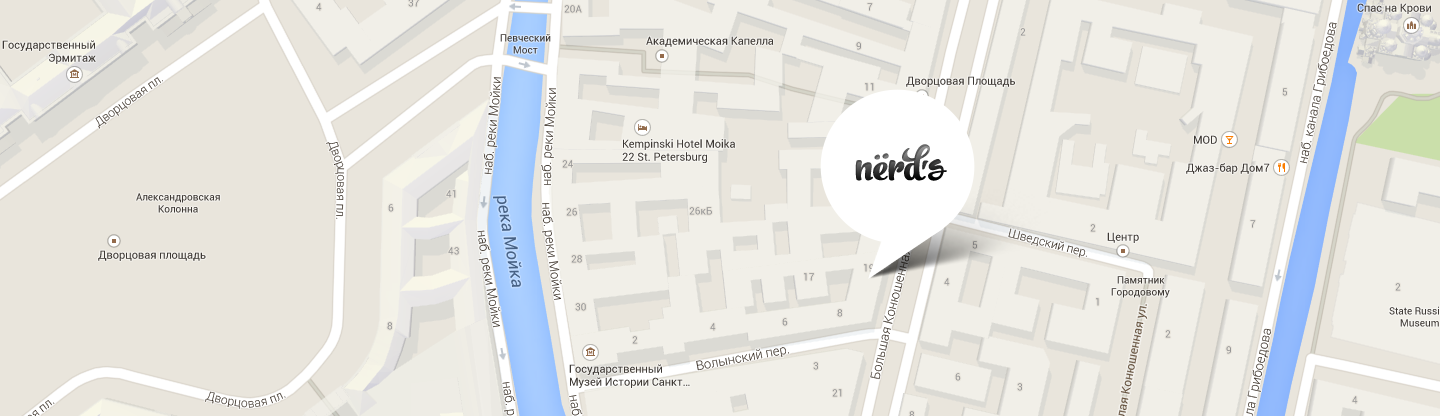
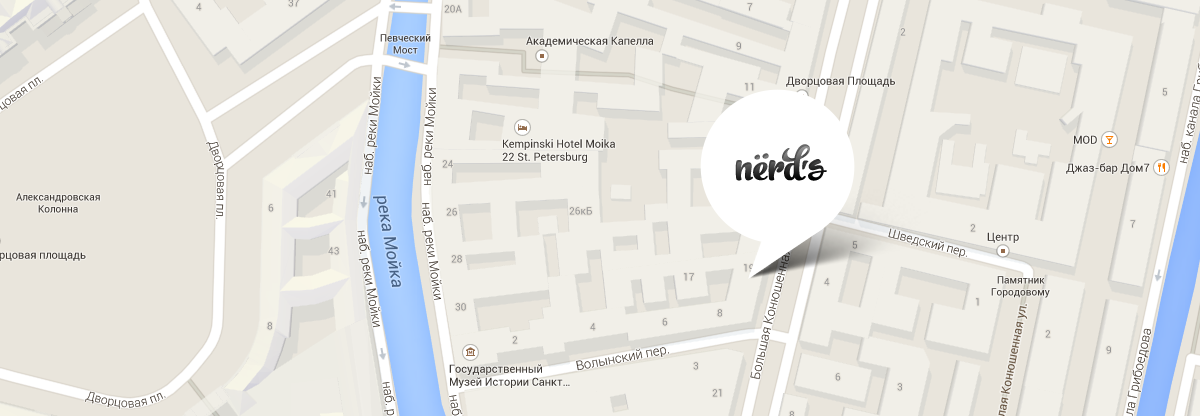
Исправил часть замечаний проверяющего

diff --git a/catalog.html b/catalog.html
@@ -4,20 +4,20 @@
   <meta charset="UTF-8">
   <title>HTML Academy: Нёрдс</title>
   <link rel="stylesheet" href="css/normalize.css">
-  <link rel="stylesheet" href="css/style-min.css">
+  <link rel="stylesheet" href="css/style.css">
 </head>
 <body>
   <header class="main-header">
     <nav class="container main-navigation">
       <a class="header-logo" href="index.html"><img src="img/nerds-logo.svg" alt="Логотип Nerds" width="160" height="65"></a>
       <ul class="site-navigation">
-        <li><a href="#" onclick="return false">Студия</a></li>
-        <li><a href="#" onclick="return false">Клиенты</a></li>
+        <li><a href="#">Студия</a></li>
+        <li><a href="#">Клиенты</a></li>
         <li><a class="current-link">Магазин</a></li>
         <li><a href="#contacts">Контакты</a></li>
       </ul>
       <ul class="cart-navigation">
-        <li><a class="cart-link" href="#" onclick="return false"><img src="img/cart-icon.svg" alt="Корзина" width="15" height="15">Корзина</a></li>
+        <li><a class="cart-link" href="#"><img src="img/cart-icon.svg" alt="Корзина" width="15" height="15">Корзина</a></li>
       </ul>
     </nav>
   </header>
@@ -100,73 +100,73 @@
           <section class="sort-section">
             <h2 class="sort-label">Сортировать:</h2>
             <ul class="sort-list">
-              <li><a href="#" class="current-item" onclick="return false">По цене</a></li>
-              <li><a href="#" onclick="return false">По типу</a></li>
-              <li><a href="#" onclick="return false">По названию</a></li>
-              <li><a href="#" class="current-item" onclick="return false"><img src="img/icon-down-dir.svg" alt="По убыванию" width="11" height="10" class="current-item"></a></li>
-              <li><a href="#" onclick="return false"><img src="img/icon-up-dir.svg" alt="По возрастанию" width="11" height="10"></a></li>
+              <li><a href="#" class="current-item">По цене</a></li>
+              <li><a href="#">По типу</a></li>
+              <li><a href="#">По названию</a></li>
+              <li><a href="#" class="current-item"><img src="img/icon-down-dir.svg" alt="По убыванию" width="11" height="10" class="current-item"></a></li>
+              <li><a href="#"><img src="img/icon-up-dir.svg" alt="По возрастанию" width="11" height="10"></a></li>
             </ul>
           </section>
           <section class="catalog-section">
             <h2 class="visually-hidden">Список шаблонов</h2>
             <ul class="catalog-list">
               <li class="catalog-item">
-                <img src="img/img-sedona.jpg" alt="Шаблон «Sedona»" width="360" height="576">
+                <img src="/img/img-sedona.jpg" alt="Шаблон «Sedona»" width="360" height="576">
                 <div class="catalog-popup">
-                  <a href="#" onclick="return false"><h3>Sedona</h3></a>
+                  <a href="#"><h3>Sedona</h3></a>
                   <p>Информационный сайт</p>
                   <p>для туристов</p>
-                  <a class="price-button" href="#" onclick="return false">9 900 руб.</a>
+                  <a class="price-button" href="#">9 900 руб.</a>
                 </div>
                 <img src="img/browser.svg" alt="Просмотр шаблона" width="360" height="40" class="browser-img">
               </li>
               <li class="catalog-item">
-                <img src="img/img-pink.jpg" alt="Шаблон «Pink»" width="360" height="576">
+                <img src="/img/img-pink.jpg" alt="Шаблон «Pink»" width="360" height="576">
                 <div class="catalog-popup">
-                  <a href="#" onclick="return false"><h3>Pink App</h3></a>
+                  <a href="#"><h3>Pink App</h3></a>
                   <p>Продуктовый лендинг</p>
                   <p>приложения для iOS и Android</p>
-                  <a class="price-button" href="#" onclick="return false">9 900 руб.</a>
+                  <a class="price-button" href="#">9 900 руб.</a>
                 </div>
                 <img src="img/browser.svg" alt="Просмотр шаблона" width="360" height="40" class="browser-img">
               </li>
               <li class="catalog-item">
-                <img src="img/img-barbershop.jpg" alt="Шаблон «Бородинский»" width="360" height="576">
+                <img src="/img/img-barbershop.jpg" alt="Шаблон «Бородинский»" width="360" height="576">
                 <div class="catalog-popup">
-                  <a href="#" onclick="return false"><h3>Barbershop</h3></a>
+                  <a href="#"><h3>Barbershop</h3></a>
                   <p>Сайт салона красоты.</p>
                   <p>Для мужчин, да.</p>
-                  <a class="price-button" href="#" onclick="return false">9 900 руб.</a>
+                  <a class="price-button" href="#">9 900 руб.</a>
                 </div>
                 <img src="img/browser.svg" alt="Просмотр шаблона" width="360" height="40" class="browser-img">
               </li>
               <li class="catalog-item">
-                <img src="img/img-mishka.jpg" alt="Шаблон «Mishka»" width="360" height="576">
+                <img src="/img/img-mishka.jpg" alt="Шаблон «Mishka»" width="360" height="576">
                 <div class="catalog-popup">
-                  <a href="#" onclick="return false"><h3>MISHKA</h3></a>
+                  <a href="#"><h3>MISHKA</h3></a>
                   <p>Интернет-магазин</p>
                   <p>вязаных игрушек</p>
-                  <a class="price-button" href="#" onclick="return false">9 900 руб.</a>
+                  <a class="price-button" href="#">9 900 руб.</a>
                 </div>
                 <img src="img/browser.svg" alt="Просмотр шаблона" width="360" height="40" class="browser-img">
               </li>
               <li class="catalog-item">
-                <img src="img/img-aplus.jpg" alt="Шаблон «A+»" width="360" height="576">
+                <img src="/img/img-aplus.jpg" alt="Шаблон «A+»" width="360" height="576">
                 <div class="catalog-popup">
-                  <a href="#" onclick="return false"><h3>A PLUS</h3></a>
+                  <a href="#"><h3>A PLUS</h3></a>
                   <p>Лендинг курсов повышения</p>
                   <p>квалификации</p>
-                  <a class="price-button" href="#" onclick="return false">9 900 руб.</a>
+                  <a class="price-button" href="#">9 900 руб.</a>
                 </div>
                 <img src="img/browser.svg" alt="Просмотр шаблона" width="360" height="40" class="browser-img">
               </li>
               <li class="catalog-item">
-                <img src="img/img-kvast.jpg" alt="Шаблон «Кваст»" width="360" height="576">
+                <img src="/img/img-kvast.jpg" alt="Шаблон «Кваст»" width="360" height="576">
                 <div class="catalog-popup">
-                  <a href="#" onclick="return false"><h3>КВАСТ</h3></a>
+                  <a href="#"><h3>КВАСТ</h3></a>
                   <p>Промо-сайт производителя</p>
                   <p>крафтового кваса</p>
-                  <a class="price-button" href="#" onclick="return false">9 900 руб.</a>
+                  <a class="price-button" href="#">9 900 руб.</a>
                 </div>
                 <img src="img/browser.svg" alt="Просмотр шаблона" width="360" height="40" class="browser-img">
               </li>
@@ -175,9 +175,9 @@
           <nav class="pagination">
             <ul class="catalog-navigation">
               <li><a class="list-item current-page">1</a></li>
-              <li><a class="list-item" href="#" onclick="return false">2</a></li>
-              <li><a class="list-item" href="#" onclick="return false">3</a></li>
-              <li><a class="next-page" href="#" onclick="return false">Следующая</a></li>
+              <li><a class="list-item" href="#">2</a></li>
+              <li><a class="list-item" href="#">3</a></li>
+              <li><a class="next-page" href="#">Следующая</a></li>
             </ul>
           </nav>
         </div>
@@ -197,7 +197,7 @@
         </section>
       </div>
       <div class="map">
-        <img src="img/map-m.png" alt="Схема проезда" width="1440" height="416">
+        <img src="img/map-m.png" alt="Схема проезда" width="1200" height="416">
       </div>
       <div class="map-interactive" id="map">
         <!--
@@ -209,9 +209,9 @@
   <footer class="main-footer">
     <div class="container footer-items">
       <ul class="social-list">
-        <li><a class="social-link" href="#" onclick="return false"><img src="img/vk-icon.svg" alt="Вконтакте" width="26" height="15"></a></li>
-        <li><a class="social-link" href="#" onclick="return false"><img src="img/fb-icon.svg" alt="Фейсбук" width="12" height="22"></a></li>
-        <li><a class="social-link" href="#" onclick="return false"><img src="img/insta-icon.svg" alt="Инстаграм" width="21" height="21"></a></li>
+        <li><a class="social-link" href="#"><img src="img/vk-icon.svg" alt="Вконтакте" width="26" height="15"></a></li>
+        <li><a class="social-link" href="#"><img src="img/fb-icon.svg" alt="Фейсбук" width="12" height="22"></a></li>
+        <li><a class="social-link" href="#"><img src="img/insta-icon.svg" alt="Инстаграм" width="21" height="21"></a></li>
       </ul>
       <p class="invite">
         Давайте дружить, это выгодно!

diff --git a/index.html b/index.html
@@ -4,20 +4,20 @@
   <meta charset="utf-8">
   <title>HTML Academy: Нёрдс</title>
   <link rel="stylesheet" href="css/normalize.css">
-  <link rel="stylesheet" href="css/style-min.css">
+  <link rel="stylesheet" href="css/style.css">
 </head>
 <body>
   <header class="main-header">
     <nav class="container main-navigation">
       <a class="header-logo index-link"><img src="img/nerds-logo.svg" alt="Логотип Nerds" width="160" height="65"></a>
       <ul class="site-navigation">
-        <li><a href="#" onclick="return false">Студия</a></li>
-        <li><a href="#" onclick="return false">Клиенты</a></li>
+        <li><a href="#">Студия</a></li>
+        <li><a href="#">Клиенты</a></li>
         <li><a href="catalog.html">Магазин</a></li>
         <li><a href="#contacts">Контакты</a></li>
       </ul>
       <ul class="cart-navigation">
-        <li><a class="cart-link" href="#" onclick="return false"><img src="img/cart-icon.svg" alt="Корзина" width="15" height="15">Корзина</a></li>
+        <li><a class="cart-link" href="#"><img src="img/cart-icon.svg" alt="Корзина" width="15" height="15">Корзина</a></li>
       </ul>
     </nav>
   </header>
@@ -37,7 +37,7 @@
           <div class="slides-text">
             <h2 class="slide-head">Долго, дорого,<br>скрупулезно.</h2>
             <p class="slide-text">Математически выверенный дизайн<br>для вашего сайта или мобильного приложения.</p>
-            <a class="slide-button" href="#" onclick="return false">Узнать больше</a>
+            <a class="slide-button" href="#">Узнать больше</a>
           </div>
           <img src="img/slide1.png" alt="Слайд 1" width="698" height="413" class="slide1-img">
         </div>
@@ -45,7 +45,7 @@
           <div class="slides-text">
             <h2 class="slide-head">Любим математику<br>как никто другой</h2>
             <p>Никакого креатива, только математические формулы<br>для расчета идеальных пропорций.</p>
-            <a class="slide-button" href="#" onclick="return false">Узнать больше</a>
+            <a class="slide-button" href="#">Узнать больше</a>
           </div>
           <img src="img/slide2.png" alt="Слайд 2" width="663" height="430" class="slide2-img">
         </div>
@@ -53,7 +53,7 @@
           <div class="slides-text">
             <h2 class="slide-head">Только ночь,<br>только хардкор</h2>
             <p>Работать днем, как все? Мы против этого.<br>Ближе к полуночи работа только начинается.</p>
-            <a class="slide-button" href="#" onclick="return false">Узнать больше</a>
+            <a class="slide-button" href="#">Узнать больше</a>
           </div>
           <img src="img/slide3.png" alt="Слайд 3" width="759" height="411" class="slide3-img">
         </div>
@@ -68,21 +68,21 @@
               <img src="img/illustration-1.png" alt="Веб-сайты" width="300" height="146">
               <p class="propositions-text">Мир никогда не будет прежним</p>
               <p class="propositions-text">после того как увидит ваш сайт!</p>
-              <a class="order-button order-button1" href="#" onclick="return false">Заказать</a>
+              <a class="order-button order-button1" href="#">Заказать</a>
             </li>
             <li class="propositions-items">
               <h3 class="propositions-head">Приложения</h3>
               <img src="img/illustration-2.png" alt="Приложения" width="300" height="146">
               <p class="propositions-text">Покорите топ-10 приложений в</p>
               <p class="propositions-text">AppStore и Google Play</p>
-              <a class="order-button order-button2" href="#" onclick="return false">Заказать</a>
+              <a class="order-button order-button2" href="#">Заказать</a>
             </li>
             <li class="propositions-items">
               <h3 class="propositions-head">Презентации</h3>
               <img src="img/illustration-3.png" alt="Презентации" width="300" height="146">
               <p class="propositions-text">Вы даже не подозреваете,</p>
               <p class="propositions-text">насколько вы изумительны!</p>
-              <a class="order-button order-button3" href="#" onclick="return false">Заказать</a>
+              <a class="order-button order-button3" href="#">Заказать</a>
             </li>
           </ul>
       </section>
@@ -124,9 +124,9 @@
         <h2 class="visually-hidden">Парнёры</h2>
         <ul class="partners-list">
           <li><a href="https://htmlacademy.ru/intensive/htmlcss"><img src="img/logo-1.png" alt="Логотип html academy" width="260" height="180" ></a></li>
-          <li><a href="#" onclick="return false"><img src="img/logo-2.png" alt="Логотип барбершопа «Бородинский»" width="260" height="180"></a></li>
-          <li><a href="#" onclick="return false"><img src="img/logo-3.png" alt="Логотип «Pink»" width="260" height="180"></a></li>
-          <li><a href="#" onclick="return false"><img src="img/logo-4.png" alt="Логотип «Mishka»" width="260" height="180"></a></li>
+          <li><a href="#"><img src="img/logo-2.png" alt="Логотип барбершопа «Бородинский»" width="260" height="180"></a></li>
+          <li><a href="#"><img src="img/logo-3.png" alt="Логотип «Pink»" width="260" height="180"></a></li>
+          <li><a href="#"><img src="img/logo-4.png" alt="Логотип «Mishka»" width="260" height="180"></a></li>
         </ul>
       </section>
     </div>
@@ -144,7 +144,7 @@
         </section>
       </div>
       <div class="map">
-        <img src="img/map-m.png" alt="Схема проезда" width="1440" height="416">
+        <img src="img/map-m.png" alt="Схема проезда" width="1200" height="416">
       </div>
       <div class="map-interactive" id="map">
         <!--
@@ -156,9 +156,9 @@
   <footer class="main-footer">
     <div class="container footer-items">
       <ul class="social-list">
-        <li><a class="social-link" href="#" onclick="return false"><img src="img/vk-icon.svg" alt="Вконтакте" width="26" height="15"></a></li>
-        <li><a class="social-link" href="#" onclick="return false"><img src="img/fb-icon.svg" alt="Фейсбук" width="12" height="22"></a></li>
-        <li><a class="social-link" href="#" onclick="return false"><img src="img/insta-icon.svg" alt="Инстаграм" width="21" height="21"></a></li>
+        <li><a class="social-link" href="#"><img src="img/vk-icon.svg" alt="Вконтакте" width="26" height="15"></a></li>
+        <li><a class="social-link" href="#"><img src="img/fb-icon.svg" alt="Фейсбук" width="12" height="22"></a></li>
+        <li><a class="social-link" href="#"><img src="img/insta-icon.svg" alt="Инстаграм" width="21" height="21"></a></li>
       </ul>
       <p class="invite">
         Давайте дружить, это выгодно!

diff --git a/css/style.css b/css/style.css
@@ -91,7 +91,7 @@ input[type="checkbox"].visually-hidden {
 
 .main-header {
   display: flex;
-  height: 115px;
+  padding-top: 115px;
   background-color: #eeeeee;
 }
 
@@ -106,6 +106,7 @@ input[type="checkbox"].visually-hidden {
 .site-navigation {
   display: flex;
   justify-content: space-between;
+  flex-wrap: wrap;
   width: 438px;
   margin-top: 12px;
 }
@@ -130,6 +131,7 @@ input[type="checkbox"].visually-hidden {
 
 .cart-navigation {
   display: flex;
+  flex-wrap: wrap;
   width: 116px;
   margin-top: 12px;
   margin-left: auto;
@@ -171,22 +173,22 @@ input[type="checkbox"].visually-hidden {
 .slide3 {
   display: none;
   position: relative;
-  height: 430px;
 }
 
 .slides-text {
   display: flex;
   flex-direction: column;
   width: 645px;
-  height: 270px;
   margin-top: 75px;
-  margin-bottom: auto;
+  margin-bottom: 80px;
 }
 
 .slide1-img,
 .slide2-img,
 .slide3-img {
-  margin-top: auto;
+  position: absolute;
+  right: 0;
+  bottom: 0;
 }
 
 .slide1-img {
@@ -245,7 +247,7 @@ input[type="checkbox"].visually-hidden {
   width: 88px;
   height: 18px;
   font-size: 0;
-  bottom: 96px;
+  bottom: 100px;
   left: 50%;
   transform: translateX(-50%);
   z-index: 2;
@@ -312,7 +314,7 @@ input[type="checkbox"].visually-hidden {
   display: flex;
   justify-content: space-between;
   height: 347px;
-  margin: 78px 60px 80px 0;
+  margin: 80px 60px 80px 0;
 }
 
 .propositions-items {
@@ -602,13 +604,13 @@ input[type="checkbox"].visually-hidden {
 }
 
 .map {
-  width: 1440px;
+  width: 1200px;
   margin: 0 auto;
 }
 
 .map-interactive {
   position: absolute;
-  min-width: 1440px;
+  min-width: 1200px;
   width: 100%;
   height: 416px;
   top: 0;
